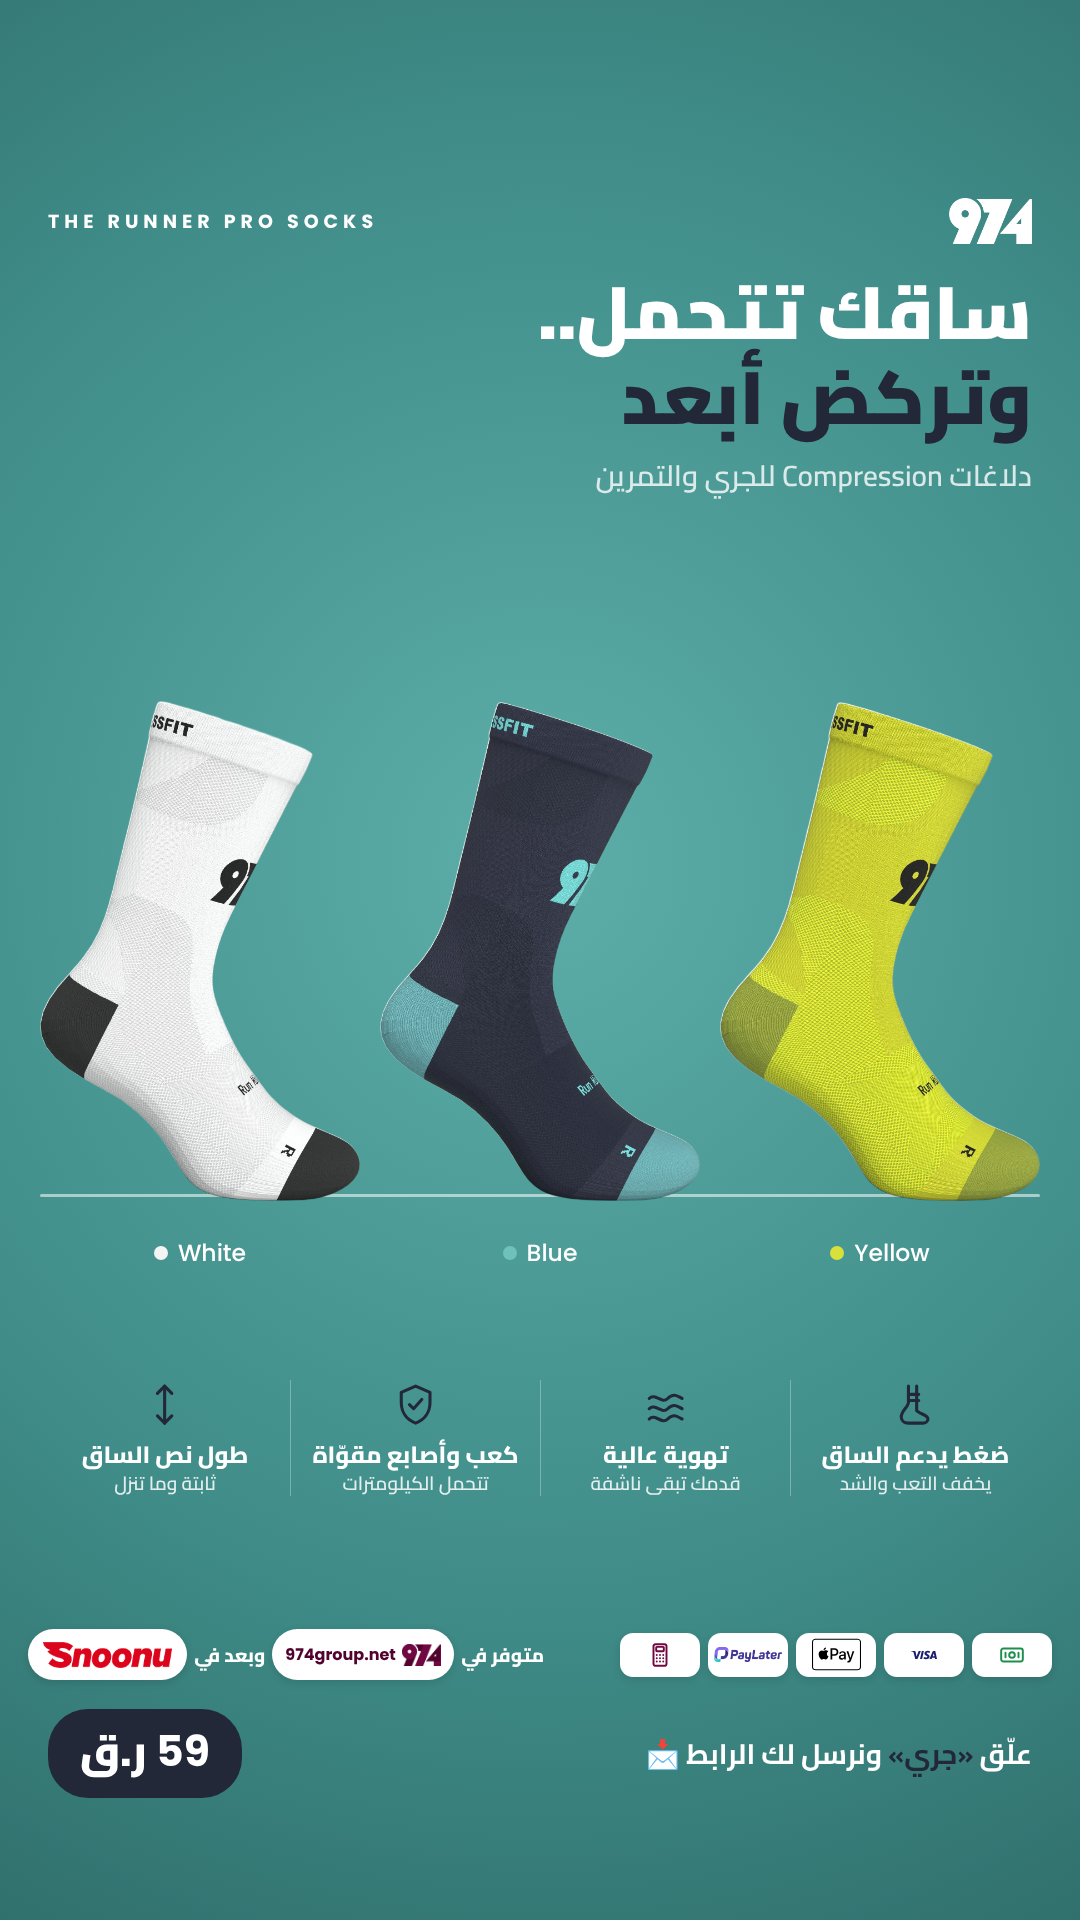
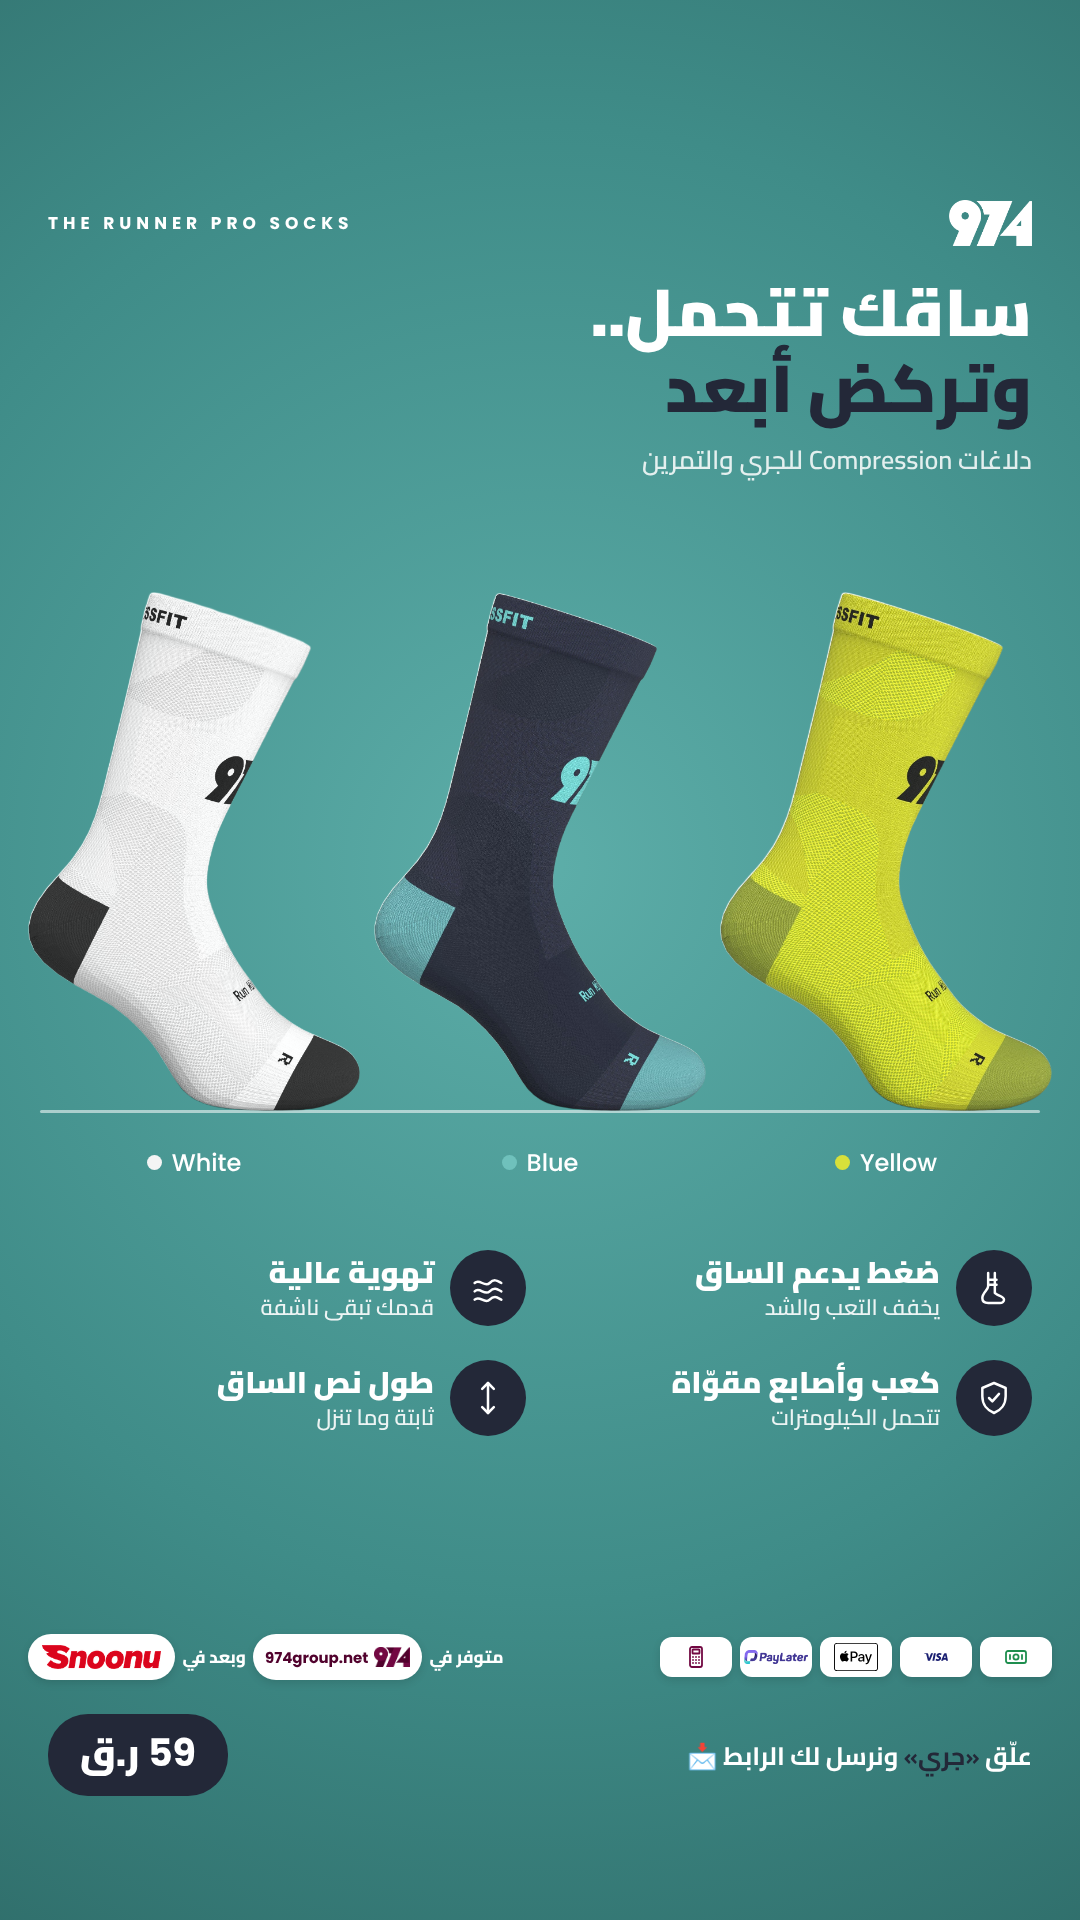
Runner Pro story
Claude-Session: https://claude.ai/code/session_01K6HDWNrArsGSJekW1VcEzV

diff --git a/posts/2026-11/runner-pro/974-runner-pro-story.html b/posts/2026-11/runner-pro/974-runner-pro-story.html
@@ -5,57 +5,52 @@
 @font-face{font-family:'Poppins';font-weight:700;src:url(file:///usr/share/fonts/truetype/google-fonts/Poppins-Bold.ttf)}
 *{margin:0;padding:0;box-sizing:border-box}
 body{width:1080px;height:1920px;background:radial-gradient(120% 70% at 50% 45%,#5DAEA9 0%,#3F8C88 55%,#2C6764 100%);font-family:Cairo;color:#fff;position:relative;overflow:hidden}
-/*x*/.trk{position:absolute;left:0;right:0;top:1120px;height:300px;background:linear-gradient(180deg,rgba(255,255,255,0) 0%,rgba(255,255,255,.07) 100%)}
-/*x*/.trk svg{position:absolute;inset:0;width:100%;height:100%}
-.top{position:absolute;top:198px;left:48px;right:48px;display:flex;justify-content:space-between;align-items:center}
-.gl{position:absolute;left:40px;right:40px;top:1194px;height:3px;background:rgba(255,255,255,.55);border-radius:2px}
-.top img{height:46px} .top span{font-family:Poppins;font-weight:700;font-size:19.040000000000003px;letter-spacing:5px;color:#fff}
-.h{position:absolute;top:270px;left:48px;right:48px;text-align:right;direction:rtl}
-.h b{display:block;font-weight:900;font-size:73.92px;line-height:1.15} .h b em{font-style:normal;color:#232838}
-.h i{display:block;font-style:normal;font-weight:600;font-size:29.120000000000005px;opacity:.8;margin-top:8px}
-.row{position:absolute;left:40px;right:40px;top:570px;height:700px;display:grid;grid-template-columns:repeat(3,1fr);gap:20px}
-.sk{display:flex;flex-direction:column;align-items:center;justify-content:flex-end;min-height:0}
-.sk img{flex:0 1 auto;min-height:0;max-width:100%;max-height:100%;object-fit:contain}
-.nm{margin-top:33.6px;display:flex;align-items:center;gap:10px;font-family:Poppins;font-weight:500;font-size:23.520000000000003px}
-.nm i{width:14px;height:14px;border-radius:50%}
-.feat{position:absolute;left:40px;right:40px;top:1380px;display:grid;grid-template-columns:repeat(4,1fr);direction:rtl}
-.f{text-align:center;padding:0 8px;border-left:1px solid rgba(255,255,255,.3)} .f:last-child{border-left:0}
-.f svg{width:49.28px;height:49.28px;color:#232838;display:block;margin:0 auto 10px}
-.f b{display:block;font-weight:800;font-size:23.520000000000003px;line-height:1.3;white-space:nowrap}
-.f em{display:block;font-style:normal;font-weight:600;font-size:19.040000000000003px;opacity:.85;line-height:1.4}
+.top{position:absolute;top:200px;left:48px;right:48px;display:flex;justify-content:space-between;align-items:center}
+.top img{height:46px} .top span{font-family:Poppins;font-weight:700;font-size:17px;letter-spacing:5px;color:#fff}
+.h{position:absolute;top:275px;left:48px;right:48px;text-align:right;direction:rtl}
+.h b{display:block;font-weight:900;font-size:66px;line-height:1.15} .h b em{font-style:normal;color:#232838}
+.h i{display:block;font-style:normal;font-weight:600;font-size:26px;opacity:.85;margin-top:8px}
 .pf{position:absolute;left:28px;right:28px;bottom:240px}
 
-.payfoot{display:flex;align-items:center;justify-content:space-between;direction:rtl;gap:17px}
+.payfoot{display:flex;align-items:center;justify-content:space-between;direction:rtl;gap:16px}
 .payfoot .pills{display:flex;gap:8px;direction:rtl}
 .payfoot .ch{display:flex;flex-direction:column;align-items:center;gap:3px}
-.payfoot .ch .lg{width:80px;height:44px;background:#fff;border-radius:13px;display:flex;align-items:center;justify-content:center;box-shadow:0 3px 8px rgba(0,0,0,.12);overflow:hidden}
-.payfoot .ch .lg svg{height:26px!important;width:auto!important}
-.payfoot .ch.applepay .lg svg{height:49px!important}
-.payfoot .ch .lg img{height:15px!important}
-.payfoot .ch i{display:none;font-style:normal;font-size:14px;color:#F2F2F2;font-weight:700;font-family:Cairo;white-space:nowrap}
-.payfoot .av{display:flex;align-items:center;gap:7px;font-family:Cairo;font-weight:800;font-size:19px;color:#FFFFFF;white-space:nowrap}
-.payfoot .av .chip{background:#fff;border-radius:33px;height:51px;padding:0 15px;display:flex;align-items:center;box-shadow:0 3px 8px rgba(0,0,0,.12)}
-.payfoot .av .chip img{height:26px}
-.payfoot .av .chip.site{gap:6px;padding:0 13px}
-.payfoot .av .chip.site img{height:22px}
-.payfoot .av .chip b{font-family:Poppins;font-weight:700;font-size:16px;color:#51022D}
+.payfoot .ch .lg{width:72px;height:40px;background:#fff;border-radius:12px;display:flex;align-items:center;justify-content:center;box-shadow:0 3px 8px rgba(0,0,0,.12);overflow:hidden}
+.payfoot .ch .lg svg{height:24px!important;width:auto!important}
+.payfoot .ch.applepay .lg svg{height:44px!important}
+.payfoot .ch .lg img{height:14px!important}
+.payfoot .ch i{display:none;font-style:normal;font-size:13px;color:#F2F2F2;font-weight:700;font-family:Cairo;white-space:nowrap}
+.payfoot .av{display:flex;align-items:center;gap:7px;font-family:Cairo;font-weight:800;font-size:17px;color:#FFFFFF;white-space:nowrap}
+.payfoot .av .chip{background:#fff;border-radius:30px;height:46px;padding:0 14px;display:flex;align-items:center;box-shadow:0 3px 8px rgba(0,0,0,.12)}
+.payfoot .av .chip img{height:24px}
+.payfoot .av .chip.site{gap:6px;padding:0 12px}
+.payfoot .av .chip.site img{height:20px}
+.payfoot .av .chip b{font-family:Poppins;font-weight:700;font-size:15px;color:#51022D}
 
-.foot{position:absolute;left:48px;right:48px;bottom:122px;display:flex;justify-content:space-between;align-items:center;direction:rtl}
-.price{direction:rtl;background:#232838;color:#fff;border-radius:40px;padding:2px 32px 8px;font-weight:900;font-size:42.56px;white-space:nowrap}
+.foot{position:absolute;left:48px;right:48px;bottom:124px;display:flex;justify-content:space-between;align-items:center;direction:rtl}
+.price{direction:rtl;background:#232838;color:#fff;border-radius:40px;padding:2px 32px 8px;font-weight:900;font-size:38px;white-space:nowrap}
 .price b{font-family:Poppins}
-.cta{font-weight:700;font-size:28.000000000000004px} .cta em{font-style:normal;color:#232838}
-</style></head><body>
-<div class="gl"></div>
-<div class="top"><span>THE RUNNER PRO SOCKS</span><img src="file:///home/claude/974-social/posts/2026-11/pilates-socks/src/logo-white.png"></div>
+.cta{font-weight:700;font-size:25px} .cta em{font-style:normal;color:#232838}
+
+.row{position:absolute;left:28px;right:28px;top:540px;height:640px;display:grid;grid-template-columns:repeat(3,1fr);gap:14px}
+.sk{display:flex;flex-direction:column;align-items:center;justify-content:flex-end;min-height:0}
+.sk img{flex:0 1 auto;min-height:0;max-width:100%;max-height:100%;object-fit:contain}
+.nm{margin-top:34px;display:flex;align-items:center;gap:10px;font-family:Poppins;font-weight:500;font-size:24px}
+.nm i{width:15px;height:15px;border-radius:50%}
+.gl{position:absolute;left:40px;right:40px;top:1110px;height:3px;background:rgba(255,255,255,.55);border-radius:2px}
+.feat{position:absolute;left:48px;right:48px;top:1250px;display:grid;grid-template-columns:1fr 1fr;gap:34px 28px;direction:rtl}
+.f{display:flex;align-items:center;gap:16px}
+.ic{flex:none;width:76px;height:76px;border-radius:50%;background:#232838;display:flex;align-items:center;justify-content:center}
+.ic svg{width:40px;height:40px;color:#fff}
+.f b{display:block;font-weight:900;font-size:30px;line-height:1.3;white-space:nowrap}
+.f em{display:block;font-style:normal;font-weight:600;font-size:22px;opacity:.9;line-height:1.4}
+</style></head><body><div class="top"><span>THE RUNNER PRO SOCKS</span><img src="file:///home/claude/974-social/posts/2026-11/pilates-socks/src/logo-white.png"></div>
 <div class="h"><b>ساقك تتحمل..<br><em>وتركض أبعد</em></b><i>دلاغات Compression للجري والتمرين</i></div>
-<div class="row"><div class="sk"><img src="file:///home/claude/974-social/posts/2026-11/runner-pro/cut/white.png"><div class="nm"><i style="background:#F4F4F4"></i>White</div></div><div class="sk"><img src="file:///home/claude/974-social/posts/2026-11/runner-pro/cut/blue.png"><div class="nm"><i style="background:#6FC1BC"></i>Blue</div></div><div class="sk"><img src="file:///home/claude/974-social/posts/2026-11/runner-pro/cut/yellow.png"><div class="nm"><i style="background:#D8E03A"></i>Yellow</div></div></div>
-<div class="feat"><div class="f"><svg viewBox="0 0 48 48" fill="none" stroke="currentColor" stroke-width="3" stroke-linecap="round" stroke-linejoin="round"><path d="M17 6v16c0 4-7 8-7 14 0 4 3 6 7 6h14c3 0 5-2 5-4 0-3-4-4-8-6l-3-2V6"/><path d="M19 14h8M19 20h8"/></svg><b>ضغط يدعم الساق</b><em>يخفف التعب والشد</em></div><div class="f"><svg viewBox="0 0 48 48" fill="none" stroke="currentColor" stroke-width="3" stroke-linecap="round" stroke-linejoin="round"><path d="M8 18c6-6 12 6 18 0s10-2 14 0"/><path d="M8 28c6-6 12 6 18 0s10-2 14 0"/><path d="M8 38c6-6 12 6 18 0s10-2 14 0"/></svg><b>تهوية عالية</b><em>قدمك تبقى ناشفة</em></div><div class="f"><svg viewBox="0 0 48 48" fill="none" stroke="currentColor" stroke-width="3" stroke-linecap="round" stroke-linejoin="round"><path d="M24 6l14 6v10c0 10-6 17-14 20C16 39 10 32 10 22V12z"/><path d="M18 24l4 4 8-9"/></svg><b>كعب وأصابع مقوّاة</b><em>تتحمل الكيلومترات</em></div><div class="f"><svg viewBox="0 0 48 48" fill="none" stroke="currentColor" stroke-width="3" stroke-linecap="round" stroke-linejoin="round"><path d="M24 6v36"/><path d="M17 13l7-7 7 7M17 35l7 7 7-7"/></svg><b>طول نص الساق</b><em>ثابتة وما تنزل</em></div></div>
-<div class="pf"><div class="payfoot"><div class="pills">
+<div class="gl"></div><div class="row"><div class="sk"><img src="file:///home/claude/974-social/posts/2026-11/runner-pro/cut/white.png"><div class="nm"><i style="background:#F4F4F4"></i>White</div></div><div class="sk"><img src="file:///home/claude/974-social/posts/2026-11/runner-pro/cut/blue.png"><div class="nm"><i style="background:#6FC1BC"></i>Blue</div></div><div class="sk"><img src="file:///home/claude/974-social/posts/2026-11/runner-pro/cut/yellow.png"><div class="nm"><i style="background:#D8E03A"></i>Yellow</div></div></div><div class="feat"><div class="f"><div class="ic"><svg viewBox="0 0 48 48" fill="none" stroke="currentColor" stroke-width="3" stroke-linecap="round" stroke-linejoin="round"><path d="M17 6v16c0 4-7 8-7 14 0 4 3 6 7 6h14c3 0 5-2 5-4 0-3-4-4-8-6l-3-2V6"/><path d="M19 14h8M19 20h8"/></svg></div><div><b>ضغط يدعم الساق</b><em>يخفف التعب والشد</em></div></div><div class="f"><div class="ic"><svg viewBox="0 0 48 48" fill="none" stroke="currentColor" stroke-width="3" stroke-linecap="round" stroke-linejoin="round"><path d="M8 18c6-6 12 6 18 0s10-2 14 0"/><path d="M8 28c6-6 12 6 18 0s10-2 14 0"/><path d="M8 38c6-6 12 6 18 0s10-2 14 0"/></svg></div><div><b>تهوية عالية</b><em>قدمك تبقى ناشفة</em></div></div><div class="f"><div class="ic"><svg viewBox="0 0 48 48" fill="none" stroke="currentColor" stroke-width="3" stroke-linecap="round" stroke-linejoin="round"><path d="M24 6l14 6v10c0 10-6 17-14 20C16 39 10 32 10 22V12z"/><path d="M18 24l4 4 8-9"/></svg></div><div><b>كعب وأصابع مقوّاة</b><em>تتحمل الكيلومترات</em></div></div><div class="f"><div class="ic"><svg viewBox="0 0 48 48" fill="none" stroke="currentColor" stroke-width="3" stroke-linecap="round" stroke-linejoin="round"><path d="M24 6v36"/><path d="M17 13l7-7 7 7M17 35l7 7 7-7"/></svg></div><div><b>طول نص الساق</b><em>ثابتة وما تنزل</em></div></div></div><div class="pf"><div class="payfoot"><div class="pills">
 <div class="ch"><div class="lg"><svg viewBox="0 0 24 24" style="height:54px" fill="none" stroke="#1E8E4E" stroke-width="1.8" stroke-linecap="round" stroke-linejoin="round"><rect x="2" y="6" width="20" height="12" rx="2"/><circle cx="12" cy="12" r="2.6"/><path d="M6 10v4M18 10v4"/></svg></div><i>كاش</i></div>
 <div class="ch"><div class="lg"><svg fill="#1A1F71" style="height:120px;width:150px" xmlns="http://www.w3.org/2000/svg" viewBox="0 0 24 24"><path d="M9.112 8.262 5.97 15.758H3.92L2.374 9.775c-.094-.368-.175-.503-.461-.658C1.447 8.864.677 8.627 0 8.479l.046-.217h3.3a.904.904 0 0 1 .894.764l.817 4.338 2.018-5.102zm8.033 5.049c.008-1.979-2.736-2.088-2.717-2.972.006-.269.262-.555.822-.628a3.66 3.66 0 0 1 1.913.336l.34-1.59a5.2 5.2 0 0 0-1.814-.333c-1.917 0-3.266 1.02-3.278 2.479-.012 1.079.963 1.68 1.698 2.04.756.367 1.01.603 1.006.931-.005.504-.602.725-1.16.734-.975.015-1.54-.263-1.992-.473l-.351 1.642c.453.208 1.289.39 2.156.398 2.037 0 3.37-1.006 3.377-2.564m5.061 2.447H24l-1.565-7.496h-1.656a.88.88 0 0 0-.826.55l-2.909 6.946h2.036l.405-1.12h2.488zm-2.163-2.656 1.02-2.815.588 2.815zm-8.16-4.84-1.603 7.496H8.34l1.605-7.496z"/></svg></div><i>Visa</i></div>
 <div class="ch applepay"><div class="lg"><svg viewBox="0 0 24 24" fill="#000" style="height:120px;width:150px"><path d="m2.15 4.318-.454.003c-.15.005-.303.013-.452.04a1.44 1.44 0 0 0-1.06.772c-.07.138-.114.278-.14.43-.028.148-.037.3-.04.45L0 6.222v11.557q0 .104.003.207c.004.15.013.303.04.452q.039.224.142.429a1.44 1.44 0 0 0 .63.63c.138.07.278.115.43.142.148.027.3.036.45.04l.208.003h20.194l.207-.003c.15-.004.303-.013.452-.04s.291-.071.428-.141a1.43 1.43 0 0 0 .631-.631c.07-.138.115-.278.141-.43.027-.148.036-.3.04-.45q.003-.104.003-.208l.001-.246V6.221q0-.104-.004-.207a3 3 0 0 0-.04-.452 1.45 1.45 0 0 0-1.2-1.201 3 3 0 0 0-.452-.04 11 11 0 0 0-.453-.003zm0 .512h19.942q.098 0 .197.003c.115.004.25.01.375.032.109.02.2.05.287.094a.93.93 0 0 1 .407.407 1 1 0 0 1 .094.288c.022.123.028.258.031.374q.003.097.003.197v11.552q0 .097-.003.196c-.003.115-.009.25-.032.375a.93.93 0 0 1-.5.693 1 1 0 0 1-.286.094 3 3 0 0 1-.373.032l-.2.003H1.906q-.1 0-.196-.003a3 3 0 0 1-.375-.032c-.109-.02-.2-.05-.288-.094a.9.9 0 0 1-.406-.407 1 1 0 0 1-.094-.288 2.5 2.5 0 0 1-.032-.373l-.002-.197V6.224q0-.098.002-.197c.004-.114.01-.248.032-.375.02-.108.05-.199.094-.287a.93.93 0 0 1 .407-.406 1 1 0 0 1 .287-.094c.125-.022.26-.029.375-.032q.098-.002.196-.003zm4.71 3.7c-.3.016-.668.199-.88.456-.191.22-.36.58-.316.918.338.03.675-.169.888-.418.205-.258.345-.603.308-.955zm2.207.42v5.493h.852v-1.877h1.18c1.078 0 1.835-.739 1.835-1.812 0-1.07-.742-1.805-1.808-1.805zm.852.719h.982c.739 0 1.161.396 1.161 1.089 0 .692-.422 1.092-1.164 1.092h-.979zm-3.154.3c-.45.01-.83.28-1.05.28-.235 0-.593-.264-.981-.257a1.45 1.45 0 0 0-1.23.747c-.527.908-.139 2.255.374 2.995.249.366.549.769.944.754.373-.014.52-.242.973-.242.454 0 .586.242.98.235.41-.007.667-.366.915-.733.286-.417.403-.82.41-.841-.007-.008-.79-.308-.797-1.209-.008-.754.615-1.113.644-1.135-.352-.52-.9-.578-1.09-.593zm8.204.397c-.99 0-1.606.533-1.652 1.256h.777c.072-.358.369-.586.845-.586.502 0 .803.266.803.711v.309l-1.097.064c-.951.054-1.488.484-1.488 1.184 0 .72.548 1.207 1.332 1.207.526 0 1.032-.281 1.264-.727h.019v.659h.788v-2.76c0-.803-.62-1.317-1.591-1.317m1.94.072 1.446 4.009c0 .003-.073.24-.073.247-.125.41-.33.571-.711.571-.069 0-.206 0-.267-.015v.666c.06.011.267.019.335.019.83 0 1.226-.312 1.568-1.283l1.5-4.214h-.868l-1.012 3.259h-.015l-1.013-3.26zm-1.167 2.189v.316c0 .521-.45.917-1.024.917-.442 0-.731-.228-.731-.579 0-.342.278-.56.769-.593z"/></svg></div><i>Apple Pay</i></div>
 <div class="ch"><div class="lg"><img src="file:///home/claude/974-social/reels/2026-11/pilates/end/logos/paylater.png" style="height:40px"></div><i>أقساط</i></div>
 <div class="ch"><div class="lg"><svg viewBox="0 0 24 24" style="height:54px" fill="none" stroke="#720842" stroke-width="1.8" stroke-linecap="round" stroke-linejoin="round"><rect x="6" y="2" width="12" height="20" rx="2"/><rect x="8.5" y="4.5" width="7" height="4" rx=".6"/><path d="M9 12h.01M12 12h.01M15 12h.01M9 15h.01M12 15h.01M15 15h.01M9 18h.01M12 18h.01M15 18h.01"/></svg></div><i>بطاقة عند الاستلام</i></div>
 </div><div class="av"><span>متوفر في</span><div class="chip site"><img src="file:///home/claude/974-social/posts/2026-11/waterproof/src/mark-c.png"><b>974group.net</b></div><span>وبعد في</span><div class="chip"><img src="file:///home/claude/974-social/reels/2026-11/pilates/end/logos/snoonu.png"></div></div></div></div>
-<div class="foot"><div class="cta">علّق <em>«جري»</em> ونرسل لك الرابط 📩</div><div class="price"><b>59</b> ر.ق</div></div>
-</body></html>
+<div class="foot"><div class="cta">علّق <em>«جري»</em> ونرسل لك الرابط 📩</div><div class="price"><b>59</b> ر.ق</div></div></body></html>

diff --git a/posts/2026-11/runner-pro/gen3.py b/posts/2026-11/runner-pro/gen3.py
@@ -1,0 +1,26 @@
+import subprocess
+from gen2 import HEAD,TOP,FOOT,C,SOCKS,ICO,NAVY
+FEAT=[('ضغط يدعم الساق','يخفف التعب والشد'),('تهوية عالية','قدمك تبقى ناشفة'),('كعب وأصابع مقوّاة','تتحمل الكيلومترات'),('طول نص الساق','ثابتة وما تنزل')]
+h=HEAD.replace('height:1350px','height:1920px').replace('top:48px;left:48px','top:200px;left:48px').replace('.h{{','.h{{').replace('top:120px;left:48px;right:48px;text-align:right','top:275px;left:48px;right:48px;text-align:right').replace('bottom:146px','bottom:240px').replace('bottom:38px','bottom:124px')
+socks=''.join(f'<div class="sk"><img src="file://{C}{k}.png"><div class="nm"><i style="background:{c}"></i>{n}</div></div>' for k,n,c in SOCKS)
+feats=''.join(f'<div class="f"><div class="ic">{ICO[i]}</div><div><b>{a}</b><em>{b}</em></div></div>' for i,(a,b) in enumerate(FEAT))
+html=h+f'''
+.row{{position:absolute;left:28px;right:28px;top:540px;height:640px;display:grid;grid-template-columns:repeat(3,1fr);gap:14px}}
+.sk{{display:flex;flex-direction:column;align-items:center;justify-content:flex-end;min-height:0}}
+.sk img{{flex:0 1 auto;min-height:0;max-width:100%;max-height:100%;object-fit:contain}}
+.nm{{margin-top:34px;display:flex;align-items:center;gap:10px;font-family:Poppins;font-weight:500;font-size:24px}}
+.nm i{{width:15px;height:15px;border-radius:50%}}
+.gl{{position:absolute;left:40px;right:40px;top:{540+640-70}px;height:3px;background:rgba(255,255,255,.55);border-radius:2px}}
+.feat{{position:absolute;left:48px;right:48px;top:1250px;display:grid;grid-template-columns:1fr 1fr;gap:34px 28px;direction:rtl}}
+.f{{display:flex;align-items:center;gap:16px}}
+.ic{{flex:none;width:76px;height:76px;border-radius:50%;background:{NAVY};display:flex;align-items:center;justify-content:center}}
+.ic svg{{width:40px;height:40px;color:#fff}}
+.f b{{display:block;font-weight:900;font-size:30px;line-height:1.3;white-space:nowrap}}
+.f em{{display:block;font-style:normal;font-weight:600;font-size:22px;opacity:.9;line-height:1.4}}
+</style></head><body>{TOP}
+<div class="h"><b>ساقك تتحمل..<br><em>وتركض أبعد</em></b><i>دلاغات Compression للجري والتمرين</i></div>
+<div class="gl"></div><div class="row">{socks}</div><div class="feat">{feats}</div>{FOOT}</body></html>'''
+n='974-runner-pro-story'
+open(n+'.html','w').write(html)
+js=f"const {{chromium}}=require('playwright');(async()=>{{const b=await chromium.launch();const pg=await b.newPage({{viewport:{{width:1080,height:1920}}}});await pg.goto('file://'+process.cwd()+'/{n}.html');await pg.waitForTimeout(800);await pg.screenshot({{path:'{n}.png'}});await b.close();}})()"
+subprocess.run(['node','-e',js],check=True)
